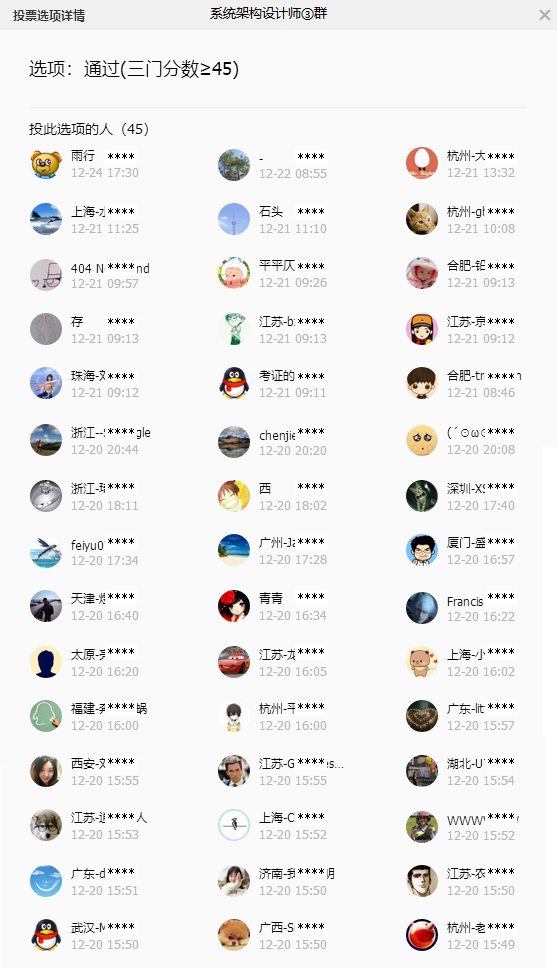
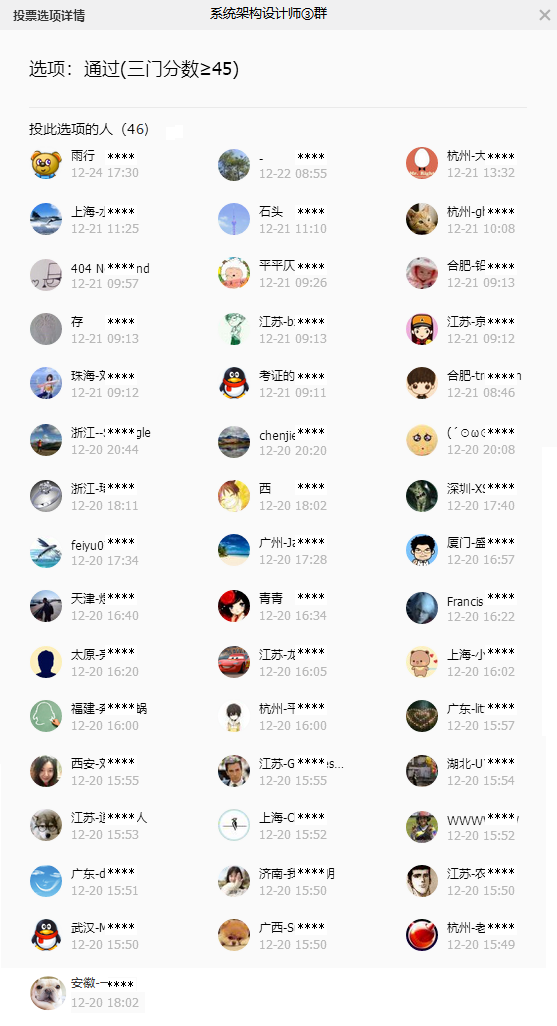
2021下半年通过人数更新

diff --git a/群通过人数/2021下半年/2021.md b/群通过人数/2021下半年/2021.md
@@ -4,13 +4,13 @@
 
   成绩于12月20日可查询；随后在①-⑥群内统计了通过人数，截止12月24日，从参与投票的群友中统计通过人数列表如下： 
 
-- **总览：** 截止目前，共通过179人，总览情况如下：
+- **总览：** 截止目前，共通过180人，总览情况如下：
 
 |        群名       | 通过人数 |   |        群名       | 通过人数 |
 |:-----------------:|:--------:|---|:-----------------:|:--------:|
 | 系统架构设计师①群 |   26人   |   | 系统架构设计师④群 |   26人   |
 | 系统架构设计师②群 |   27人   |   | 系统架构设计师⑤群 |   25人   |
-| 系统架构设计师③群 |   45人   |   | 系统架构设计师⑥群 |   30人   |
+| 系统架构设计师③群 |   46人   |   | 系统架构设计师⑥群 |   30人   |
 
 - **详情：** 详细情况如下：
 

diff --git a/README.md b/README.md
@@ -7,7 +7,7 @@
    
 - **通过人数**
 
-  [2021下半年①~⑥群通过179人，点击查看详情 >](https://github.com/xxlllq/system_architect/blob/master/%E7%BE%A4%E9%80%9A%E8%BF%87%E4%BA%BA%E6%95%B0/2021%E4%B8%8B%E5%8D%8A%E5%B9%B4/2021.md)
+  [2021下半年①~⑥群通过180人，点击查看详情 >](https://github.com/xxlllq/system_architect/blob/master/%E7%BE%A4%E9%80%9A%E8%BF%87%E4%BA%BA%E6%95%B0/2021%E4%B8%8B%E5%8D%8A%E5%B9%B4/2021.md)
 
   [2020下半年①~②群通过116人，点击查看详情 > ](https://github.com/xxlllq/system_architect/blob/master/%E7%BE%A4%E9%80%9A%E8%BF%87%E4%BA%BA%E6%95%B0/2020%E4%B8%8B%E5%8D%8A%E5%B9%B4/2020.md)
   
